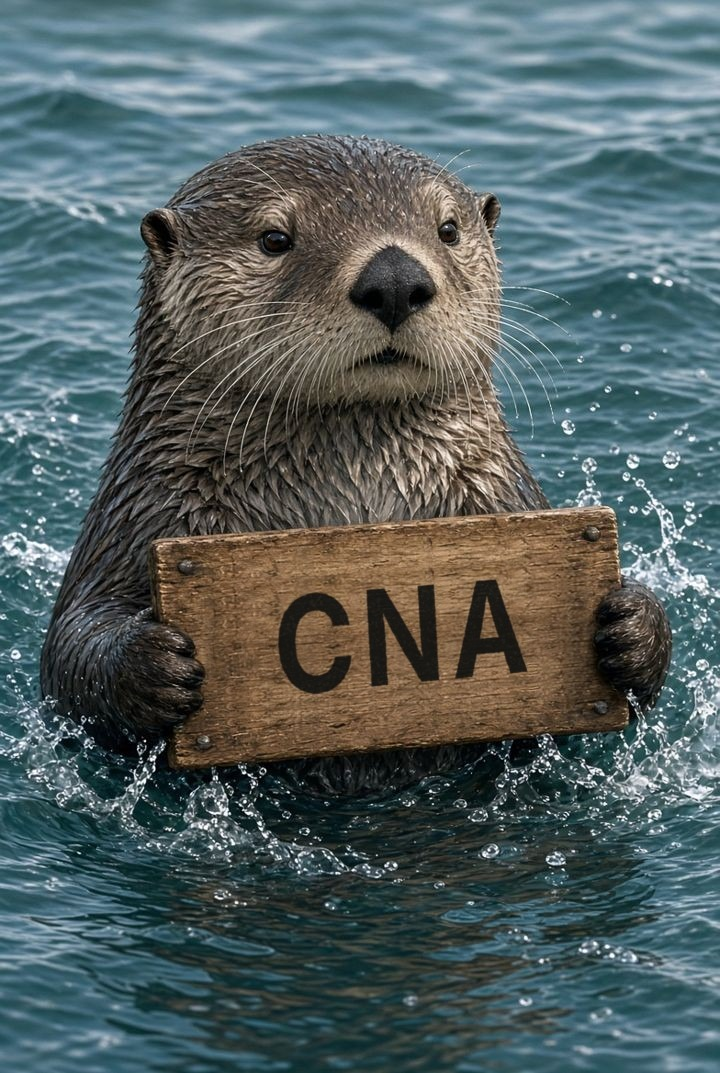
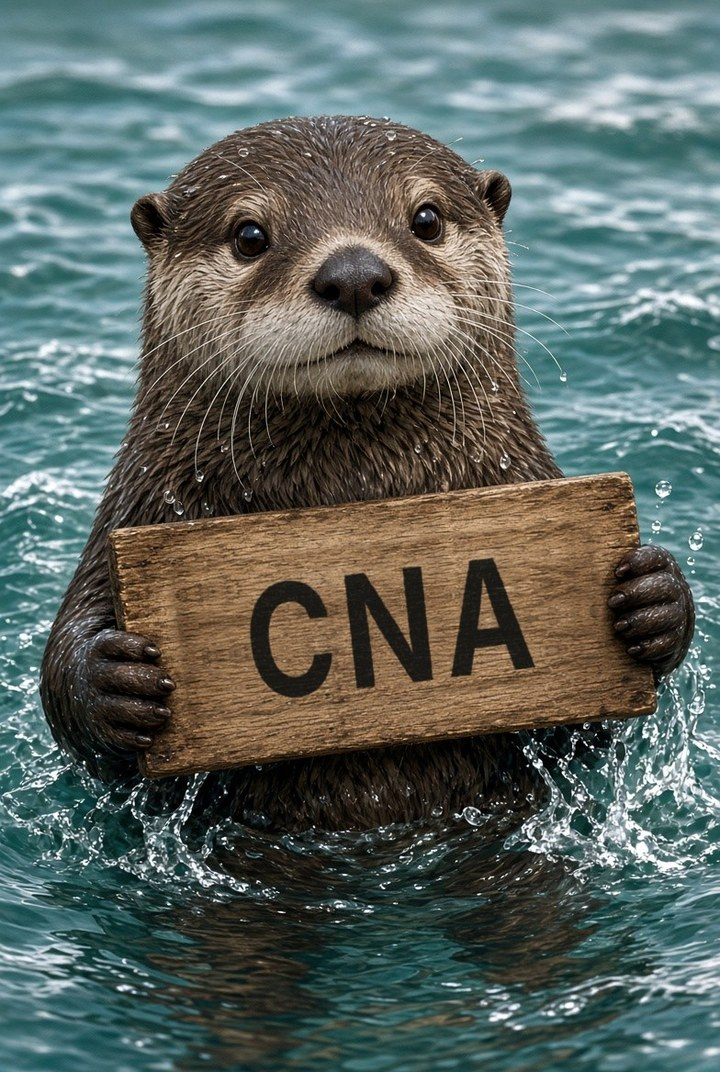
CNA otter: new playful photo with matching sign lettering
Claude-Session: https://claude.ai/code/session_01LR3B33XzxUzeo1k33pmqRY

diff --git a/js/home.js b/js/home.js
@@ -22,7 +22,7 @@
   const ROOT = ((document.querySelector('link[href*="home.css"]') || {}).href || "").replace(/css\/home\.css.*$/, "");
   const PHOTO = { RRT: { src: ROOT + "images/brand/otter-rrt.jpg", alt: "A sea otter in the bay holding a wooden CRT/RRT sign" },
                   SDS: { src: ROOT + "images/brand/otter-sds.jpg", alt: "A sleepy sea otter floating in the bay holding a wooden SDS sign" },
-                  CNA: { src: ROOT + "images/brand/otter-cna.jpg?v=2", alt: "A sea otter in the bay holding a wooden CNA sign" } };
+                  CNA: { src: ROOT + "images/brand/otter-cna.jpg?v=3", alt: "A curious, playful sea otter in the bay holding a wooden CNA sign" } };
   const TH = THEMES[window.EXAM || "RRT"];
   const PH = PHOTO[window.EXAM || "RRT"];
   const themeVars = () => `--bay:${TH.bay};--tide:${TH.tide};--buoy:${TH.accent};--glass:${TH.glass};--mid:${TH.mid};--low:${TH.low};--accentInk:${TH.accentInk}`;

diff --git a/rpsgt/index.html b/rpsgt/index.html
@@ -22,7 +22,7 @@
 <script src="../js/scales.js?v=20261025u"></script>
 <script src="../js/sleep_scales.js?v=20261025w"></script>
 <script src="../js/calc.js?v=20261022c"></script>
-<script src="../js/home.js?v=20261103c"></script>
+<script src="../js/home.js?v=20261103d"></script>
 <script src="../js/app.js?v=20261103"></script>
 </body>
 </html>

diff --git a/sds/index.html b/sds/index.html
@@ -22,7 +22,7 @@
 <script src="../js/scales.js?v=20261025u"></script>
 <script src="../js/sleep_scales.js?v=20261025w"></script>
 <script src="../js/calc.js?v=20261022c"></script>
-<script src="../js/home.js?v=20261103c"></script>
+<script src="../js/home.js?v=20261103d"></script>
 <script src="../js/app.js?v=20261103"></script>
 </body>
 </html>

diff --git a/cna/index.html b/cna/index.html
@@ -22,7 +22,7 @@
 <script src="../js/scales.js?v=20261025u"></script>
 <script src="../js/cna_scales.js?v=20261103"></script>
 <script src="../js/calc.js?v=20261022c"></script>
-<script src="../js/home.js?v=20261103c"></script>
+<script src="../js/home.js?v=20261103d"></script>
 <script src="../js/app.js?v=20261103"></script>
 </body>
 </html>

diff --git a/index.html b/index.html
@@ -22,7 +22,7 @@
 <script src="js/stats.js?v=20261025f"></script>
 <script src="js/scales.js?v=20261025u"></script>
 <script src="js/calc.js?v=20261022c"></script>
-<script src="js/home.js?v=20261103c"></script>
+<script src="js/home.js?v=20261103d"></script>
 <script src="js/app.js?v=20261103"></script>
 </body>
 </html>
